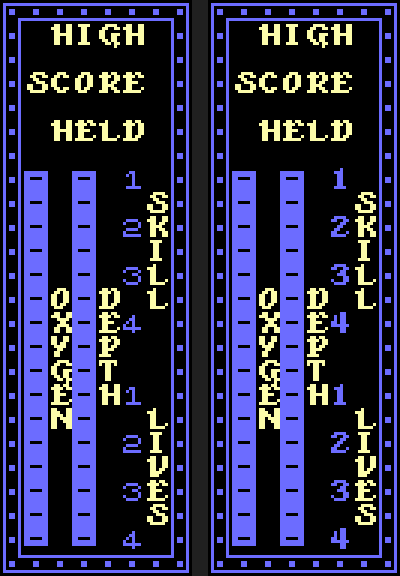
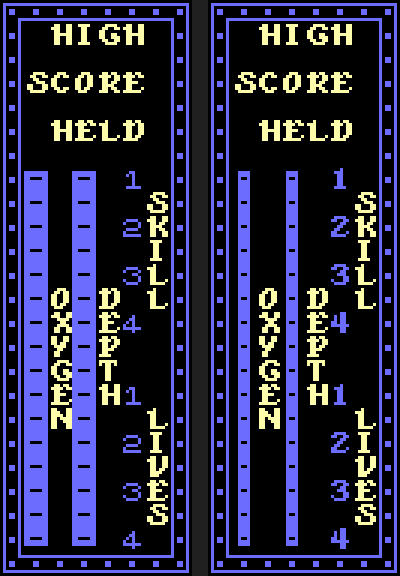
корыта шкал 4 px и глиф G: правки параллельного захода доведены и зафиксированы, эталон правила 17 пересоздан

diff --git a/tools/verify/gauge_gate.js b/tools/verify/gauge_gate.js
@@ -14,7 +14,7 @@
 //
 // Меры (никаких окон, только адреса самой шкалы):
 //   A. на первом игровом тике LDE55 = GAUGE_DEPTH - 4*строка мини-карты;
-//   B. в столбце шкалы глубины РОВНО ОДНА группа байт 0xFF, и она лежит по
+//   B. в столбце шкалы глубины РОВНО ОДНА группа байт 0x3C (4 px ползунка), и она лежит по
 //      адресу из LDE55 (ползунок один, старых следов нет);
 //   C. то же самое после «глубина изменилась -> гибель -> новая игра».
 //
@@ -53,14 +53,14 @@ const g = reachGame(`${DIR}/scuba.rom`, `${DIR}/scubacod1.sym`,
       m.wr(SS.LDE55, SS.GAUGE_DEPTH & 0xff); m.wr(SS.LDE55 + 1, SS.GAUGE_DEPTH >> 8); });
   } });
 const rd16 = (a) => g.m.rd(a) | (g.m.rd(a + 1) << 8);
-// Группы 0xFF в столбце шкалы: ползунок рисуется четырьмя байтами 0xFF, и в
-// столбце глубины больше их взяться неоткуда — битмап панели там пуст (замер).
+// Группы 0x3C в столбце шкалы: ползунок рисуется четырьмя байтами GAUGE_INK,
+// и в столбце глубины больше их взяться неоткуда — корыто лежит в 0xE000.
 function groups() {
   const hi = S.GAUGE_DEPTH >> 8, lo1 = S.GAUGE_DEPTH & 0xff;
   const out = []; let cur = null;
   for (let lo = lo1 - 127; lo <= lo1 + 3; lo++) {
     const v = EMPTY ? 0 : g.m.rd(hi * 256 + lo);
-    if (v === 0xff) { if (!cur) { cur = { a: hi * 256 + lo, n: 0 }; out.push(cur); } cur.n++; }
+    if (v === 0x3c) { if (!cur) { cur = { a: hi * 256 + lo, n: 0 }; out.push(cur); } cur.n++; }
     else cur = null;
   }
   return out;
@@ -72,7 +72,7 @@ for (let i = 0; i < 300 && t < 2; i++) g.m.step();
 const a1 = rd16(S.LDE55), w1 = want(), g1 = groups();
 console.log(`ШКАЛЫ: ${DIR}, база 0x${S.GAUGE_DEPTH.toString(16)}`);
 console.log(`  первый старт: строка мини-карты ${g.m.rd(S.L5B03 + 1)}, LDE55 0x${a1.toString(16)}, ` +
-            `ждём 0x${w1.toString(16)}, групп 0xFF ${g1.length} ` + g1.map(r => `[0x${r.a.toString(16)} x${r.n}]`).join(" "));
+            `ждём 0x${w1.toString(16)}, групп 0x3C ${g1.length} ` + g1.map(r => `[0x${r.a.toString(16)} x${r.n}]`).join(" "));
 if (EMPTY || !t) { console.log(`  ПРОВАЛ  ПУСТАЯ ВЫБОРКА: тиков ${t}, групп ${g1.length}`);
   console.log("ГЕЙТ НЕДЕЙСТВИТЕЛЕН"); process.exit(2); }
 chk(a1 === w1, `на первом старте ползунок глубины по истинной глубине: 0x${a1.toString(16)} против 0x${w1.toString(16)}`);

diff --git a/tools/verify/hud_gate.js b/tools/verify/hud_gate.js
@@ -82,18 +82,26 @@ function rowsEven(base) {
   return true;
 }
 // --- модель ВЕРТИКАЛЬНОЙ шкалы -------------------------------------------
-// Ползунок: четыре байта $FF по адресам st-1 .. st+2, где st = база - значение.
-// Проверяем три вещи сразу: состояние равно ожидаемому адресу, все четыре байта
-// на месте, и в столбце НЕТ НИ ОДНОГО лишнего $FF (инкрементальная отрисовка
+// Ползунок: четыре байта чернил по адресам st-1 .. st+2, где st = база - значение.
+// В панели чернила $3C (4 px, как корыто), в нижнем HUD — $FF. Проверяем три
+// вещи сразу: состояние равно ожидаемому адресу, все четыре байта на месте, и
+// в столбце НЕТ НИ ОДНОГО лишнего байта чернил (инкрементальная отрисовка
 // обязана стирать за собой — накопленный след это самый вероятный дефект).
 function sliderState(addr) { return m.rd(addr) | (m.rd(addr + 1) << 8); }
 function sliderOk(base, want) {
+  const ink = PANEL ? 0x3c : 0xff;          // панель: 4 px как корыто; HUD: полная ширина
   const st = (base - want) & 0xffff, col = st >> 8;
   let lo = st & 0xff, ok = true, extra = 0;
-  for (const d of [-1, 0, 1, 2]) if (m.rd((col << 8) | ((lo + d) & 0xff)) !== 0xff) ok = false;
-  for (let i = 0; i < 256; i++) {
-    if (m.rd((col << 8) | i) !== 0xff) continue;
-    const rel = ((i - lo) << 24 >> 24);
+  for (const d of [-1, 0, 1, 2]) if (m.rd((col << 8) | ((lo + d) & 0xff)) !== ink) ok = false;
+  // В панели столбец шкалы делит C000 с подписью HIGH («I» = $3C). Сканировать
+  // все 256 байт как для $FF нельзя: глиф даст ложный «след». Смотрим только
+  // ход ползунка: база .. база-127, с запасом в 2 строки на высоту.
+  const i0 = PANEL ? ((base & 0xff) - 127 - 2) : 0;
+  const i1 = PANEL ? ((base & 0xff) + 3) : 255;
+  for (let i = i0; i <= i1; i++) {
+    const adrLo = i & 0xff;
+    if (m.rd((col << 8) | adrLo) !== ink) continue;
+    const rel = ((adrLo - lo) << 24 >> 24);
     if (rel < -1 || rel > 2) extra++;
   }
   return { st, ok, extra };

diff --git a/tools/verify/panel_align_gate.js b/tools/verify/panel_align_gate.js
@@ -53,7 +53,8 @@ const LABEL_YS = [
 ];
 // Цифры SKILL/LIVES больше не шрифт Зимина 6 px из битмапа: DrawSidePanel
 // кладёт глифы ROM_CHARSET '1'..'4' в столбец 29. Сверять их с эталоном Зимина
-// нельзя — это уже не то явление. Рамка и корыта по-прежнему из его тайлов.
+// нельзя — это уже не то явление. Рамка по-прежнему из его тайлов; корыта
+// сужены до 4 px ($3C), с эталоном Зимина их сверять нельзя.
 const DIGIT_YS = [
   { c0: 29, c1: 29, y0: 120, y1: 127 },   // SKILL '1' row 15
   { c0: 29, c1: 29, y0: 136, y1: 143 },   // SKILL '2' row 17
@@ -64,10 +65,17 @@ const DIGIT_YS = [
   { c0: 29, c1: 29, y0: 224, y1: 231 },   // LIVES '3' row 28
   { c0: 29, c1: 29, y0: 240, y1: 247 },   // LIVES '4' row 30
 ];
+// Корыта шкал: 4 px вместо зиминских 8, чтобы подписи не прилипали.
+const TROUGH_YS = [
+  { c0: 25, c1: 25, y0: 120, y1: 247 },   // OXYGEN
+  { c0: 27, c1: 27, y0: 120, y1: 247 },   // DEPTH
+];
 function skipChrome(col, y) {
   for (const r of LABEL_YS)
     if (col >= r.c0 && col <= r.c1 && y >= r.y0 && y <= r.y1) return true;
   for (const r of DIGIT_YS)
+    if (col >= r.c0 && col <= r.c1 && y >= r.y0 && y <= r.y1) return true;
+  for (const r of TROUGH_YS)
     if (col >= r.c0 && col <= r.c1 && y >= r.y0 && y <= r.y1) return true;
   return false;
 }
@@ -147,8 +155,8 @@ for (const [name, lvl, row, ticks] of SCENES) {
     if (want !== got && bad++ === 0) badLine = y;
   }
   chk(cmp > 0 && bad === 0,
-      `${name}: рамка и корыта = эталон Зимина, сдвинутый на ${d} строк ` +
-      `(сверено ${cmp} точек, подписи+цифры пропущены ${skipped}, ` +
+      `${name}: рамка = эталон Зимина, сдвинутый на ${d} строк ` +
+      `(сверено ${cmp} точек, подписи+цифры+корыта пропущены ${skipped}, ` +
       `расхождений ${bad}${bad ? `, первое на строке ${badLine}` : ""})`);
 
   // --- проверка 1б: отброшено РОВНО два пояса и ничего сверх них --------------

diff --git a/tools/mkpanl.py b/tools/mkpanl.py
@@ -132,12 +132,12 @@ def blit_labels(plane_c, glyphs):
             blit_cell(plane_c, r, c, glyphs[ord(ch)])
 
 
-# Вертикальное корыто: как в битмапе Зимина после стирания подписей.
-# Первая ячейка (row 15) — пустая строка сверху; последняя (row 30) — две
-# пустые снизу, перед нижней кромкой. Середина — насечка C3 на 4-й строке.
-TROUGH_CAP = (0x00, 0xFF, 0xFF, 0xC3, 0xFF, 0xFF, 0xFF, 0xFF)
-TROUGH_MID = (0xFF, 0xFF, 0xFF, 0xC3, 0xFF, 0xFF, 0xFF, 0xFF)
-TROUGH_END = (0xFF, 0xFF, 0xFF, 0xC3, 0xFF, 0xFF, 0x00, 0x00)
+# Вертикальное корыто: 4 px ($3C), насечка $24. По два пикселя пустоты с краёв,
+# чтобы вертикальные OXYGEN/DEPTH не прилипали к шкалам. Первая ячейка (row 15)
+# — пустая строка сверху; последняя (row 30) — две пустые снизу.
+TROUGH_CAP = (0x00, 0x3C, 0x3C, 0x24, 0x3C, 0x3C, 0x3C, 0x3C)
+TROUGH_MID = (0x3C, 0x3C, 0x3C, 0x24, 0x3C, 0x3C, 0x3C, 0x3C)
+TROUGH_END = (0x3C, 0x3C, 0x3C, 0x24, 0x3C, 0x3C, 0x00, 0x00)
 
 
 def render_chrome(glyphs):
